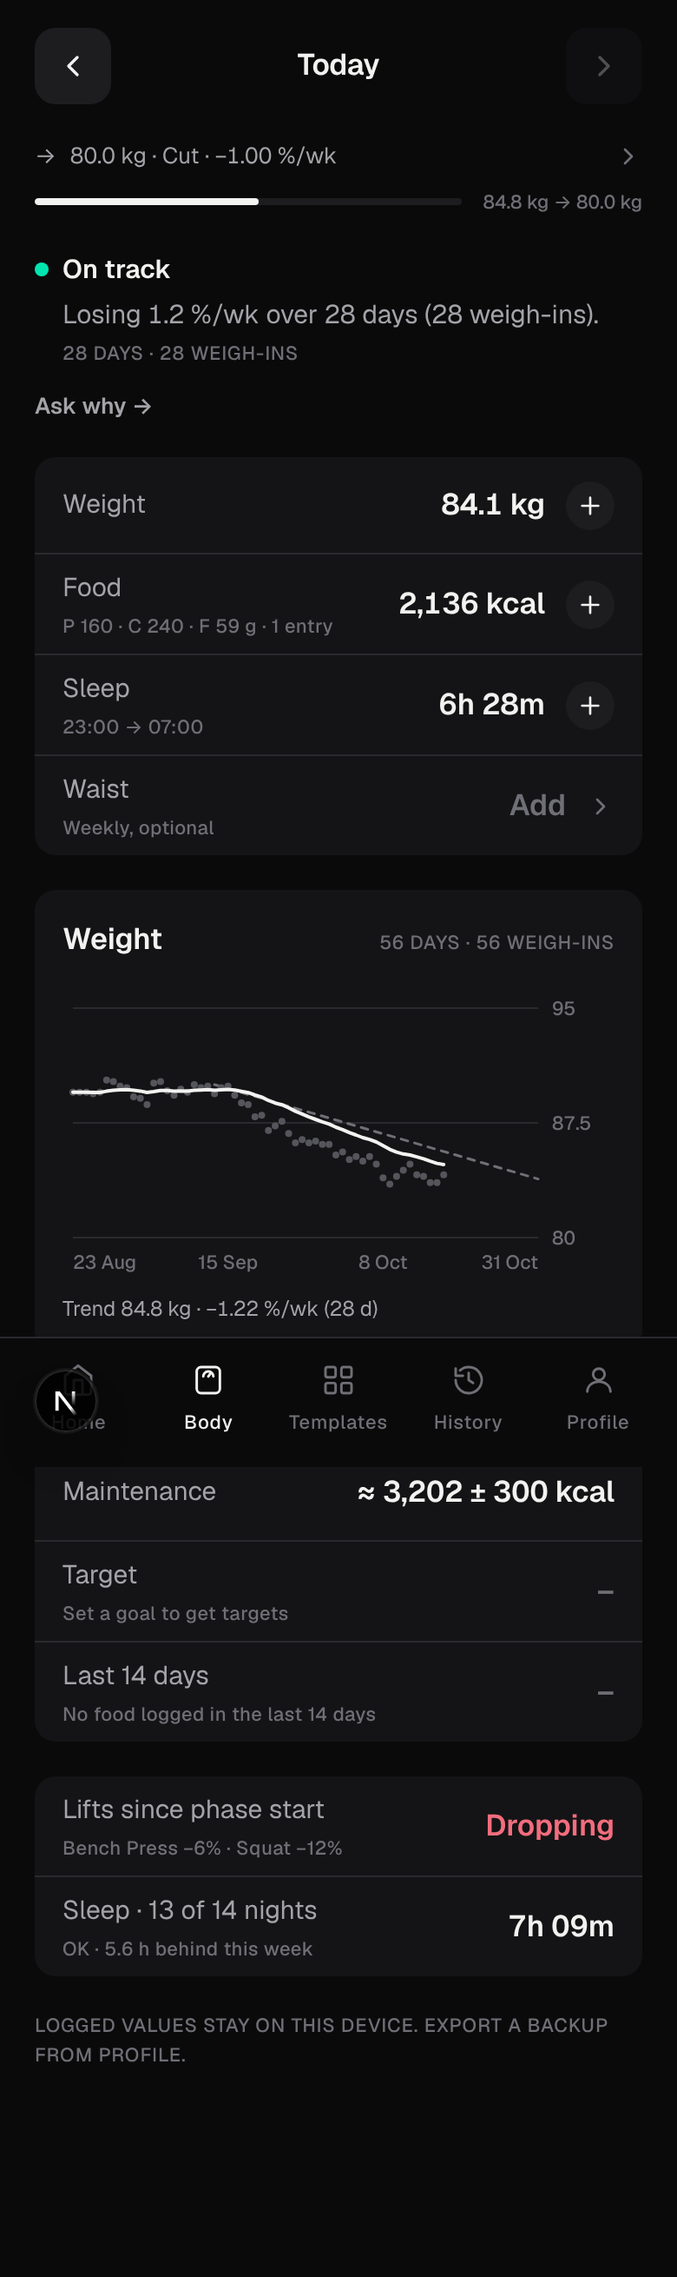
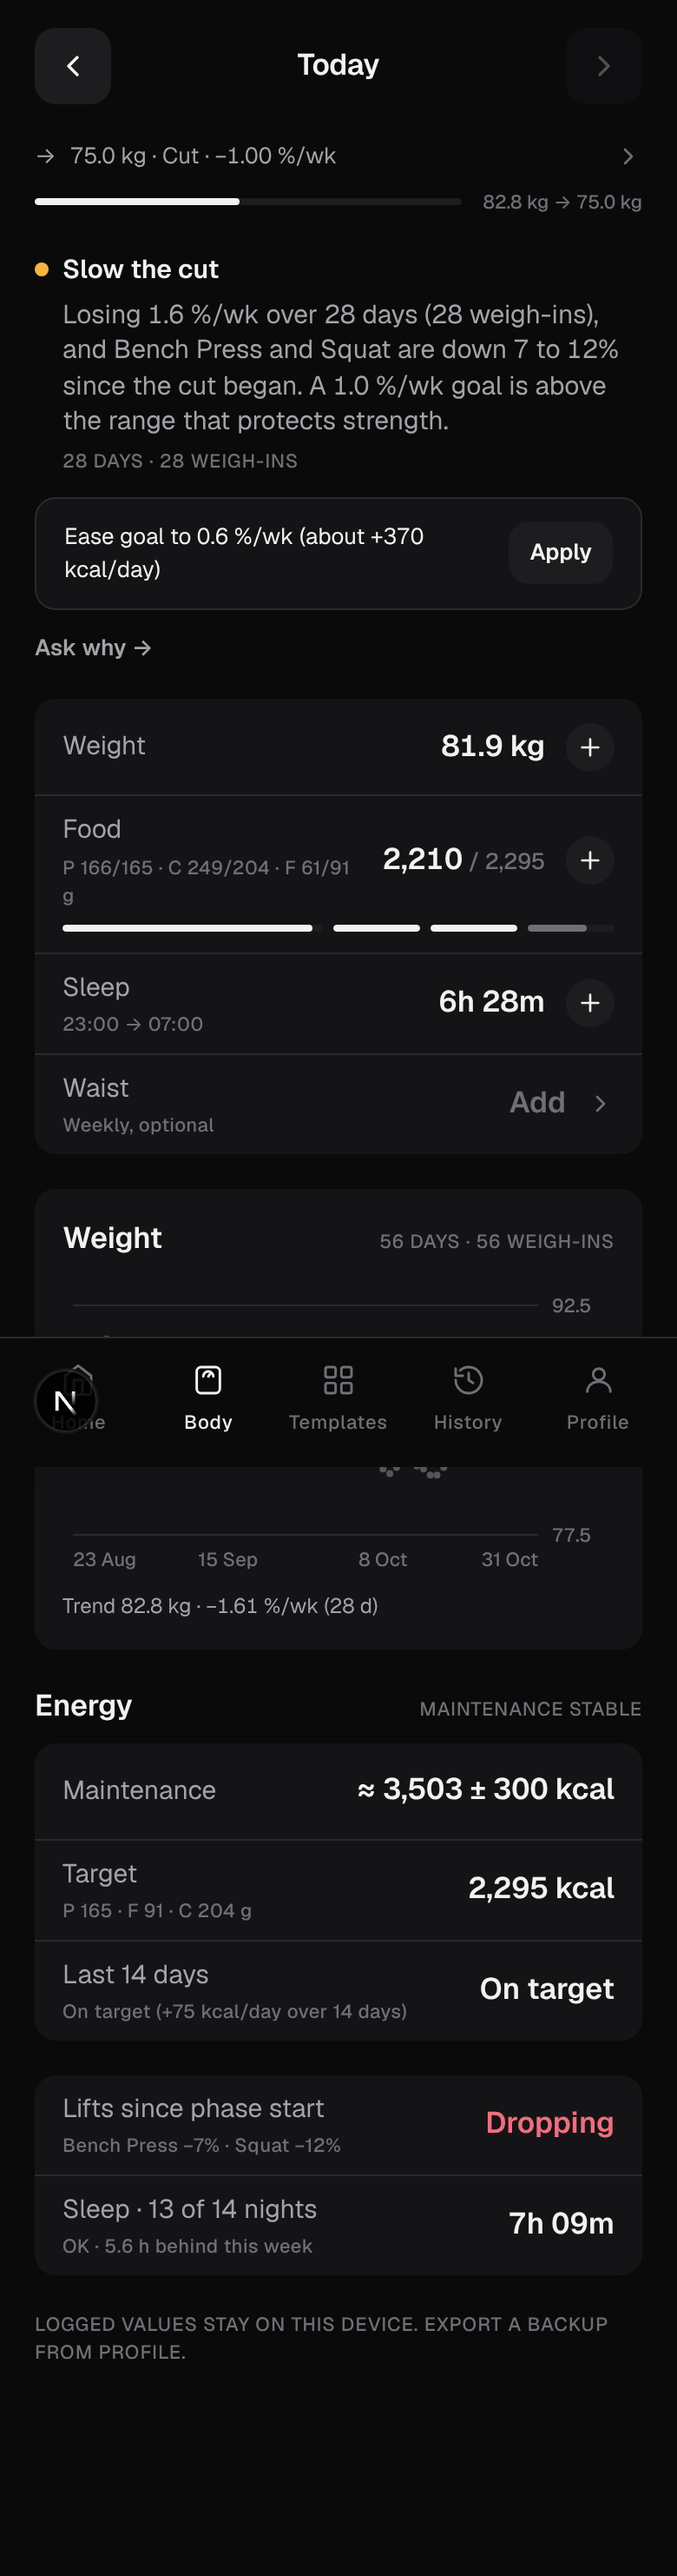
V1: scenario presets, end-to-end screenshots, STATUS marks H5 ready
The seed page mirrors the judge's scenario table so every verdict can be
reproduced on the device, and each one was seeded and screenshotted at
phone width. Verdicts observed: ON-TRACK "On track", LOSS-1 "Slow the
cut" with Apply, ADH-1 "Eat to target first", SLEEP-1 "Don't cut
calories further", GAIN-1 "Gaining faster than a lean bulk needs",
DATA-RATE "Calibrating · 11 more weigh-ins", SAFE-4 "Not coaching this
goal", NO-GOAL and cold start "Set a goal".

- app/dev/seed-physique: ON-TRACK, LOSS-1, ADH-1, SLEEP-1, GAIN-1,
  DATA-RATE, SAFE-4, NO-GOAL, early-read presets
- components/physique/EnergyCard.tsx: honest empty caption
- docs/plan/screens/V1 and U2b: Body and Home per scenario at 390px
- docs/plan/STATUS.md: P5, U2b, I2, V1 done; H5 ready; dogfood notes

Schema impact: none.

Claude-Session: https://claude.ai/code/session_01HBmc66X9v5wXGqWFaaPds4

diff --git a/app/dev/seed-physique/SeedPhysiqueClient.tsx b/app/dev/seed-physique/SeedPhysiqueClient.tsx
@@ -2,7 +2,7 @@
 
 import { useState } from "react";
 import Link from "next/link";
-import { makeScenario, type ScenarioSpec } from "@/lib/physique/fixtures";
+import { makeScenario, type LiftSpec, type ScenarioSpec } from "@/lib/physique/fixtures";
 import { addDays } from "@/lib/dates";
 import { useNow } from "@/lib/ui/useToday";
 import { downloadAppLocalStorageSnapshot } from "@/lib/devDataTransfer";
@@ -28,160 +28,117 @@ const SEED_TAG = "[seed]";
 type Preset = { id: string; label: string; spec: (today: string) => ScenarioSpec };
 
 /**
- * Scenario presets. The P5 rows (on-track, LOSS-1, SLEEP-1, GAIN-1) follow
- * the table in 04-tickets.md §P5: `preDays` gives the lifts a pre-phase
- * baseline and `manualInitialTdee` pins the seed so the coach can be made
- * to lag or lead the true expenditure.
+ * Scenario presets. The P5 rows mirror `lib/physique/__tests__/judgeHelpers.ts`
+ * (the ticket's scenario table) with `startDate` moved so the data ends
+ * today. `preDays` gives the lifts a pre-phase baseline; `manualInitialTdee`
+ * pins the expenditure seed so the coach can be made to lag the true TDEE.
  */
+const SLEEP_OK = { meanH: 7.3, sdH: 0.5, loggedShare: 0.9 } as const;
+const FLAT_LIFTS: LiftSpec[] = [
+  { name: "Squat", startE1rm: 150, profile: "linear", changePct: 0, perWeek: 2, cv: 0.03 },
+  { name: "Bench Press", startE1rm: 110, profile: "linear", changePct: 0, perWeek: 2, cv: 0.03 },
+];
+function stepLifts(changePct: number, atDay: number, cv: number): LiftSpec[] {
+  return [
+    { name: "Squat", startE1rm: 150, profile: "step", changePct, atDay, perWeek: 2, cv },
+    { name: "Bench Press", startE1rm: 110, profile: "step", changePct, atDay, perWeek: 2, cv },
+  ];
+}
+function startFor(today: string, days: number) {
+  return addDays(today, -(days - 1));
+}
+
 const PRESETS: Preset[] = [
   {
+    id: "ontrack",
+    label: "ON-TRACK · 85 kg cut at −0.6, eats to target, 6 weeks, lifts flat",
+    spec: (today) => ({ seed: 31, days: 63, preDays: 21, startDate: startFor(today, 63), bodyweightKg: 85, trueTdeeKcal: 2800, intake: "toTarget", goal: { ratePctPerWeek: -0.6, targetKg: 78 }, lifts: FLAT_LIFTS, sleep: SLEEP_OK, waist: { startCm: 86, changeCm: -2 } }),
+  },
+  {
+    id: "loss1",
+    label: "LOSS-1 · 90 kg at −1.0 goal, coach seeded low, losing ≈1.5, two lifts −8%",
+    spec: (today) => {
+      const startDate = startFor(today, 56);
+      return {
+        seed: 41,
+        days: 56,
+        preDays: 21,
+        startDate,
+        bodyweightKg: 90,
+        trueTdeeKcal: 3500,
+        intake: "toTarget",
+        goal: { ratePctPerWeek: -1.0, confirmed: true, targetKg: 75 },
+        foodLogFromDay: 21,
+        profile: { manualInitialTdee: 2400, expenditureStartDate: addDays(startDate, 21) },
+        lifts: stepLifts(-8, 35, 0.03),
+        sleep: SLEEP_OK,
+      };
+    },
+  },
+  {
+    id: "adh1",
+    label: "ADH-1 · same cut at −0.6, eating 500 kcal under target",
+    spec: (today) => {
+      const startDate = startFor(today, 56);
+      return {
+        seed: 43,
+        days: 56,
+        preDays: 21,
+        startDate,
+        bodyweightKg: 90,
+        trueTdeeKcal: 3500,
+        intake: "toTarget",
+        intakeOffsetKcal: -500,
+        goal: { ratePctPerWeek: -0.6, confirmed: true, targetKg: 75 },
+        foodLogFromDay: 21,
+        profile: { manualInitialTdee: 2800, expenditureStartDate: addDays(startDate, 21) },
+        lifts: stepLifts(-8, 35, 0.03),
+        sleep: SLEEP_OK,
+      };
+    },
+  },
+  {
+    id: "sleep1",
+    label: "SLEEP-1 · 85 kg cut, 6.6 h on 13 of 14 nights, two lifts −3%",
+    spec: (today) => ({ seed: 51, days: 42, preDays: 7, startDate: startFor(today, 42), bodyweightKg: 85, trueTdeeKcal: 2800, intake: "toTarget", goal: { ratePctPerWeek: -0.6, targetKg: 78 }, sleep: { meanH: 6.6, sdH: 0.4, source: "manual", loggedShare: 13 / 14 }, lifts: stepLifts(-3, 28, 0) }),
+  },
+  {
+    id: "gain1",
+    label: "GAIN-1 · 80 kg intermediate at +0.75, 8 weeks",
+    spec: (today) => ({ seed: 61, days: 77, preDays: 21, startDate: startFor(today, 77), bodyweightKg: 80, trueTdeeKcal: 2800, intake: "toTarget", goal: { ratePctPerWeek: 0.75, confirmed: true, trainingStatus: "intermediate", targetKg: 88 }, sleep: SLEEP_OK, lifts: [
+      { name: "Squat", startE1rm: 140, profile: "linear", changePct: 4, perWeek: 2, cv: 0.03 },
+      { name: "Bench Press", startE1rm: 100, profile: "linear", changePct: 3, perWeek: 2, cv: 0.03 },
+    ] }),
+  },
+  {
+    id: "data-rate",
+    label: "DATA-RATE · 10 days of data",
+    spec: (today) => ({ seed: 71, days: 10, startDate: startFor(today, 10), bodyweightKg: 85, trueTdeeKcal: 2800, intake: "toTarget", goal: { ratePctPerWeek: -0.6, targetKg: 78 }, sleep: SLEEP_OK }),
+  },
+  {
+    id: "safe4",
+    label: "SAFE-4 · goal injected with a BMI < 18.5 target (58 kg)",
+    spec: (today) => ({ seed: 81, days: 30, startDate: startFor(today, 30), bodyweightKg: 85, trueTdeeKcal: 2800, intake: "toTarget", goal: { ratePctPerWeek: -0.6, targetKg: 58 }, sleep: SLEEP_OK }),
+  },
+  {
+    id: "nogoal",
+    label: "NO-GOAL · 30 days of logging, no goal",
+    spec: (today) => ({ seed: 91, days: 30, startDate: startFor(today, 30), bodyweightKg: 85, trueTdeeKcal: 2800, goal: null, sleep: SLEEP_OK }),
+  },
+  {
     id: "cut-3w",
-    label: "3 weeks · cut on track (85 kg, −0.6 %/wk)",
+    label: "Early read · 3 weeks of a cut (fixed intake)",
     spec: (today) => ({
       seed: 11,
       days: 21,
-      startDate: addDays(today, -20),
+      startDate: startFor(today, 21),
       bodyweightKg: 85,
       trueTdeeKcal: 2800,
       intake: { meanKcal: 2250, sdKcal: 250 },
       goal: { ratePctPerWeek: -0.6, targetKg: 80 },
-      sleep: { meanH: 7.2, sdH: 0.5, loggedShare: 0.9 },
-      lifts: [
-        { name: "Squat", startE1rm: 150, profile: "linear", changePct: 1, perWeek: 2, cv: 0.03 },
-        { name: "Bench Press", startE1rm: 110, profile: "linear", changePct: 0.5, perWeek: 2, cv: 0.03 },
-      ],
+      sleep: SLEEP_OK,
+      lifts: FLAT_LIFTS,
       waist: { startCm: 86, changeCm: -1 },
-    }),
-  },
-  {
-    id: "ontrack-8w",
-    label: "8 weeks · on-track cut (85 kg, −0.6 %/wk, eats to target)",
-    spec: (today) => ({
-      seed: 31,
-      preDays: 14,
-      days: 70,
-      startDate: addDays(today, -69),
-      bodyweightKg: 85,
-      trueTdeeKcal: 2800,
-      intake: "toTarget",
-      goal: { ratePctPerWeek: -0.6, targetKg: 78, confirmed: true },
-      sleep: { meanH: 7.3, sdH: 0.5, loggedShare: 0.9 },
-      lifts: [
-        { name: "Squat", startE1rm: 150, profile: "linear", changePct: 0, perWeek: 2, cv: 0.03 },
-        { name: "Bench Press", startE1rm: 110, profile: "linear", changePct: 0, perWeek: 2, cv: 0.03 },
-        { name: "Romanian Deadlift", startE1rm: 160, profile: "linear", changePct: 0, perWeek: 1, cv: 0.03 },
-      ],
-      waist: { startCm: 86, changeCm: -2.5 },
-      profile: { manualInitialTdee: 2800 },
-    }),
-  },
-  {
-    id: "loss1-8w",
-    label: "8 weeks · LOSS-1 (90 kg, −1.0 goal, losing ≈1.5, two lifts −8%)",
-    spec: (today) => ({
-      seed: 41,
-      preDays: 21,
-      days: 56,
-      startDate: addDays(today, -55),
-      bodyweightKg: 90,
-      trueTdeeKcal: 3300,
-      intake: "toTarget",
-      goal: { ratePctPerWeek: -1.0, targetKg: 80, confirmed: true },
-      sleep: { meanH: 7.3, sdH: 0.5, loggedShare: 0.9 },
-      lifts: [
-        { name: "Squat", startE1rm: 160, profile: "step", changePct: -8, atDay: 35, perWeek: 2, cv: 0.03 },
-        { name: "Bench Press", startE1rm: 115, profile: "step", changePct: -8, atDay: 35, perWeek: 2, cv: 0.03 },
-      ],
-      profile: { manualInitialTdee: 2800 },
-    }),
-  },
-  {
-    id: "sleep1-5w",
-    label: "5 weeks · SLEEP-1 (85 kg cut, 6.6 h nights, two lifts −3%)",
-    spec: (today) => ({
-      seed: 51,
-      preDays: 21,
-      days: 56,
-      startDate: addDays(today, -55),
-      bodyweightKg: 85,
-      trueTdeeKcal: 2800,
-      intake: "toTarget",
-      goal: { ratePctPerWeek: -0.6, targetKg: 78, confirmed: true },
-      sleep: { meanH: 6.6, sdH: 0.2, loggedShare: 0.93 },
-      lifts: [
-        { name: "Squat", startE1rm: 150, profile: "step", changePct: -3, atDay: 42, perWeek: 2, cv: 0.02 },
-        { name: "Bench Press", startE1rm: 110, profile: "step", changePct: -3, atDay: 42, perWeek: 2, cv: 0.02 },
-      ],
-      profile: { manualInitialTdee: 2800 },
-    }),
-  },
-  {
-    id: "gain1-6w",
-    label: "6 weeks · GAIN-1 (80 kg intermediate, +0.75 %/wk)",
-    spec: (today) => ({
-      seed: 61,
-      preDays: 14,
-      days: 56,
-      startDate: addDays(today, -55),
-      bodyweightKg: 80,
-      trueTdeeKcal: 2900,
-      intake: "toTarget",
-      goal: { ratePctPerWeek: 0.75, targetKg: 88, trainingStatus: "intermediate", confirmed: true },
-      sleep: { meanH: 7.4, sdH: 0.5, loggedShare: 0.85 },
-      lifts: [
-        { name: "Squat", startE1rm: 140, profile: "linear", changePct: 3, perWeek: 2, cv: 0.03 },
-        { name: "Bench Press", startE1rm: 100, profile: "linear", changePct: 2, perWeek: 2, cv: 0.03 },
-      ],
-      profile: { manualInitialTdee: 2900 },
-    }),
-  },
-  {
-    id: "gain-6w",
-    label: "6 weeks · lean gain (80 kg, +0.25 %/wk)",
-    spec: (today) => ({
-      seed: 23,
-      days: 42,
-      startDate: addDays(today, -41),
-      bodyweightKg: 80,
-      trueTdeeKcal: 2900,
-      intake: { meanKcal: 3150, sdKcal: 250 },
-      goal: { ratePctPerWeek: 0.25, targetKg: 86, trainingStatus: "intermediate" },
-      sleep: { meanH: 7.4, sdH: 0.5, loggedShare: 0.85 },
-      lifts: [
-        { name: "Squat", startE1rm: 140, profile: "linear", changePct: 3, perWeek: 2, cv: 0.03 },
-        { name: "Bench Press", startE1rm: 100, profile: "linear", changePct: 2, perWeek: 2, cv: 0.03 },
-        { name: "Romanian Deadlift", startE1rm: 160, profile: "linear", changePct: 1, perWeek: 1, cv: 0.03 },
-      ],
-      waist: { startCm: 82, changeCm: 0.5 },
-    }),
-  },
-  {
-    id: "safe4",
-    label: "SAFE-4 · goal injected with a BMI < 18.5 target (180 cm → 58 kg)",
-    spec: (today) => ({
-      seed: 71,
-      days: 28,
-      startDate: addDays(today, -27),
-      bodyweightKg: 62,
-      trueTdeeKcal: 2300,
-      intake: { meanKcal: 1800, sdKcal: 200 },
-      goal: { ratePctPerWeek: -0.6, targetKg: 58, confirmed: true },
-      sleep: { meanH: 7.2, sdH: 0.5, loggedShare: 0.9 },
-      profile: { heightCm: 180, manualInitialTdee: 2300 },
-    }),
-  },
-  {
-    id: "nogoal-3w",
-    label: "3 weeks · logging, no goal",
-    spec: (today) => ({
-      seed: 81,
-      days: 21,
-      startDate: addDays(today, -20),
-      bodyweightKg: 85,
-      trueTdeeKcal: 2800,
-      intake: { meanKcal: 2800, sdKcal: 300 },
-      goal: null,
-      sleep: { meanH: 7.2, sdH: 0.5, loggedShare: 0.8 },
     }),
   },
 ];

diff --git a/docs/plan/STATUS.md b/docs/plan/STATUS.md
@@ -5,12 +5,17 @@ Working branch: `claude/admiring-ptolemy-mz6jwu` (this session's assigned branch
 
 Update this file at the end of every ticket. Statuses: `todo` · `doing` · `done` · `blocked` · `skipped`.
 
+## Dogfood notes
+
+Record wrong verdicts here as `YYYY-MM-DD · rule id · what it said · what was actually going on · what you expected` (see `M1-dogfood.md`).
+
+
 ## M0 — Your setup
 | Ticket | Status | Date | Evidence / notes |
 |---|---|---|---|
 | H1 Back up + Home Screen | todo | | |
 | H2 Prepare sessions | todo | | |
-| H5 Ship M1 to your phone (after the run) | todo | | merge to main only when ★ tickets through U2a + I1 are done and `npm run build` passes |
+| H5 Ship M1 to your phone (after the run) | **ready** | 2026-10-17 | All ★ tickets are done on `claude/admiring-ptolemy-mz6jwu`; `npm run check` and `npm run build` pass. Merge to `main` to deploy, then add the app to your Home Screen (Safari evicts storage for plain tabs after 7 days). Dev pages (`/dev/*`) return 404 in production. |
 
 ## M1 — Body layer MVP (★ = morning critical path, in this order)
 | Ticket | Status | Date | Evidence / notes |
@@ -25,10 +30,10 @@ Update this file at the end of every ticket. Statuses: `todo` · `doing` · `don
 | ★ P3 Intake, expenditure, targets | done | 2026-10-17 | `lib/physique/{intake,expenditure,targets,program}.ts`, 53 tests. Impulse response matches research A §G.6 exactly (−59, −56, −22, +35, +38, +29); stability 50 seeds × 120 d, SD 350: 5.14 kcal/day at φ=0 (≤8), 7.08 at φ=0.5 (≤10), α and k untouched; goldens to ±1 kcal (BMR 1837.2, TDEE₀ 2940, cut target 2241, protein 210 g, ETA 37.3 wk); holding at 3/7 and resume after 3 complete days; partial fires at 0.49× not 0.51×; seed fixed against profile edits; refused rates. `makeScenario` `intake: "toTarget"` is a closed loop through `newProgram`/`checkInProgram`. **Deviations:** impulse *starts* L weeks back (the "ending" wording gives L=3 off by 26 kcal); the 4-of-7 pause is evaluated from day 7 (week 1 holds as `warmup`); the expenditure seed is persisted on the profile (`expenditureSeed`) and **the io layer must write it when `expenditureStartDate` is set** (done in U3); partial suggestion needs ≥7 complete days in the prior 21; fixtures keep `preDays` default 0. |
 | ★ U3 Goal setup | done | 2026-10-17 | `/body/goal`: step 0 basics (sex, height, age, body-fat category; saved to onboarding + physique profile), target (NumberPad prefilled with the trend, direction derived), rate (training-status chip from lifts/years/you, `RateSlider` with bands sampled from `validateRate`, live kg/week, ETA with month, starting kcal + protein from `newProgram`; out-of-band needs a confirm, refused rates disable Next with the reason), confirm (summary, Start today toggle → `phaseStartConfirmedAt`, safety question → maintenance + referral copy, SAFE-0 under 18, DB-2 note after a recent 8-week cut). `lib/physique/io/goalSetup.ts`: `loadGoalContext`, `previewGoal`, `createGoal` (closes the previous goal, freezes `expenditureSeed`, writes goal + history + initial program). Tests `goalSetup.test.ts`: 82→90 intermediate default +0.25, ETA 37.3 wk, refused >1 kg/wk and deficit >30%/1,000 kcal, createGoal writes goal/program/seed. Body page shows kcal and macro targets with bars after confirming (`screens/U3/4-body-with-targets.png`); wizard screenshots `screens/U3/0-basics … 3-confirm`. Playwright walkthrough: refused rate disables Next; save lands on /body with a `goal_start` program. |
 | ★ P4 Strength + sleep | done | 2026-10-17 | `lib/physique/strength.ts` (e1rmAdj, main lifts, deloads, rep-range changes, STR-1, lift-derived training status), `lib/physique/sleep.ts` (manual/wearable thresholds, mixed rule, acute, debt7, mean14h, SLEEP-1 corroboration, HealthKit sample stub). 38 tests in `strength.test.ts` + `sleep.test.ts` (+ `helpers.ts`). Acceptance: one lift −8% → one-lift; early-cut drop suppressed; session after a 4.5 h night excluded; zero main lifts → unclear; manual 6.8 → short, 6.4 → severe, wearable 6.8 → ok, 9/14 → unknown. **Deviation:** the two-lift −8% seed test measures 0.76 (0.765 at N=1000), not ≥0.80: research F derived 80% with mean-of-3 blocks, the spec uses median-of-3 (SD ×1.16). We keep the median for robustness, accept ≥0.70 for two lifts and assert ≥0.80 with three lifts (measured 0.955). Not implemented: STR-3 glycogen clause (needs per-muscle sets + carbs); naps dropped for lack of a field. Lift-derived status wires into `targets.trainingStatus` in P5. |
-| ★ P5 Judge, status, check-in plan | todo | | |
-| ★ U2b Body page: verdict, energy, strength, sleep | todo | | |
-| ★ I2 Assistant integration | todo | | |
-| ★ V1 Seed scenarios + end-to-end check | todo | | |
+| ★ P5 Judge, status, check-in plan | done | 2026-10-17 | `lib/physique/{judge,status,checkIn,evidence,copy}.ts`; 75 tests (`judge`, `copy`, `checkIn`, `status`, `evidence`; `judgeHelpers.ts` holds the scenario table). Every rule has fire / near-miss / suppressed fixtures; direction checks over every row; the copy linter runs over all 37 rules × variants × recommendation labels. 200-seed rates: ON-TRACK 0.86, ADH-1 1.00, SLEEP-1 0.92 (deterministic lifts; 0.29 at cv 0.03 because a −3% step sits 0.5 pt past the 2.5% corroboration threshold), GAIN-1 0.89 (56 bulk days), DATA-RATE 0.99, SAFE-4 1.00, NO-GOAL 1.00, **LOSS-1/3 0.605 (asserted ≥0.55; 0.785 with deterministic lifts, asserted ≥0.75)**: capped by STR-1's two-lift power (0.76) × the rate test on the closed loop's decelerating transient. **Findings to revisit (M2):** ADH-1 fires on ~10% of perfectly adherent users at n = 14 (§3 noise term 1.645×350/√14 ≈ 154 ≈ the 150 tolerance); the −1.2 kg phase-start water step inflates the expenditure estimate so on-plan cuts read ≈ −0.35 %/wk in weeks 2–6 and LOSS-6 false-fires ~4% with tiny refresh_targets. Decisions in JSDoc: SAFE-4 rate clause = LOSS-3 on 3 consecutive weekly windows; GAIN-1 "2 evaluations" = today and today−7; RECOMP-WAIST is a primary candidate after GAIN-3; SAFE-2 never fires (no EEE input); SLEEP-3 = acute only; cooldown reads rateHistory "recommendation" and program "refresh"/"apply_now" within 14 d. |
+| ★ U2b Body page: verdict, energy, strength, sleep | done | 2026-10-17 | Pages read everything from `usePhysiqueAnalysis` (`lib/physique/io/analysis.ts`, which runs `buildPhysiqueAnalysis` on live repo data + workout history). `GoalHeader` (progress on trend), `VerdictCard` (status dot, title, detail, window · n, ≤3 flag rows, recommendation row with Apply / Update targets via `lib/physique/io/recommendations.ts`, confirm-days link, Ask why → assistant with a prefilled prompt), `EnergyCard` (maintenance ± with maturity, targets, 14-day adherence), `StrengthSleepRows`. Home: physique card shows verdict title + status dot + "Check-in ready"; a watch/attention verdict takes over the assistant insight card with Why? / What do I change? / Show the data. Seed page: scenario rows from P5. Cold start shows "Set a goal", "No weigh-ins yet", "needs food and weigh-ins", "No main lifts logged yet", "Log 10 of 14 nights" (no placeholder numbers). Screenshots `docs/plan/screens/U2b/` and `V1/`. `npm run build` passes. |
+| ★ I2 Assistant integration | done | 2026-10-17 | `lib/assistantStrictIntentLock.ts` (moved out of the route), `physique_progress` kind in `lib/assistantQuestionRouting.ts` (`isPhysiqueQuestion`), `lib/assistantPhysiqueContext.ts` (static PHYSIQUE CONTEXT INTEGRATION block with the §10 must-not-claim list; zod payload schema; `formatPhysiqueContextBlock` ≤ 2,400 chars for the largest payload, test), `lib/physique/payload.ts` + `io/payload.ts` (client payload: analysis verbatim + 14 days of weigh-ins/intake/sleep, main lifts' last 3 e1RMs, goal, targets). Route: validates `physique` (400 on malformed or > 64 KB, route test), pushes the block after USER CONTEXT with no new cache_control, physique task template, physique counts as data for cold start, bench-timeline regex exempts physique phrasing, kind in analysisPreferredKinds. Routing test: 11 physique phrasings → `physique_progress`, 5 bench phrasings keep the bench path. Assistant page sends the payload. **Not run (no API key in the cloud session):** the LOSS-1 "is my cut working?" reply check and the `cache_read_input_tokens > 0` check. |
+| ★ V1 Seed scenarios + end-to-end check | done | 2026-10-17 | `/dev/seed-physique` has every scenario row (ON-TRACK, LOSS-1, ADH-1, SLEEP-1, GAIN-1, DATA-RATE, SAFE-4, NO-GOAL, early read, cold start). Playwright seeded each and captured `/body` and `/` at 390 px into `docs/plan/screens/V1/` (verdict per scenario listed in the commit). `docs/plan/M1-dogfood.md` written. `npm run check` and `npm run build` pass. |
 | F2 Data-corrupting bug fixes (after V1) | todo | | |
 | U4 Food day log | todo | | |
 | A1 "Describe it" AI food estimate | todo | | |
